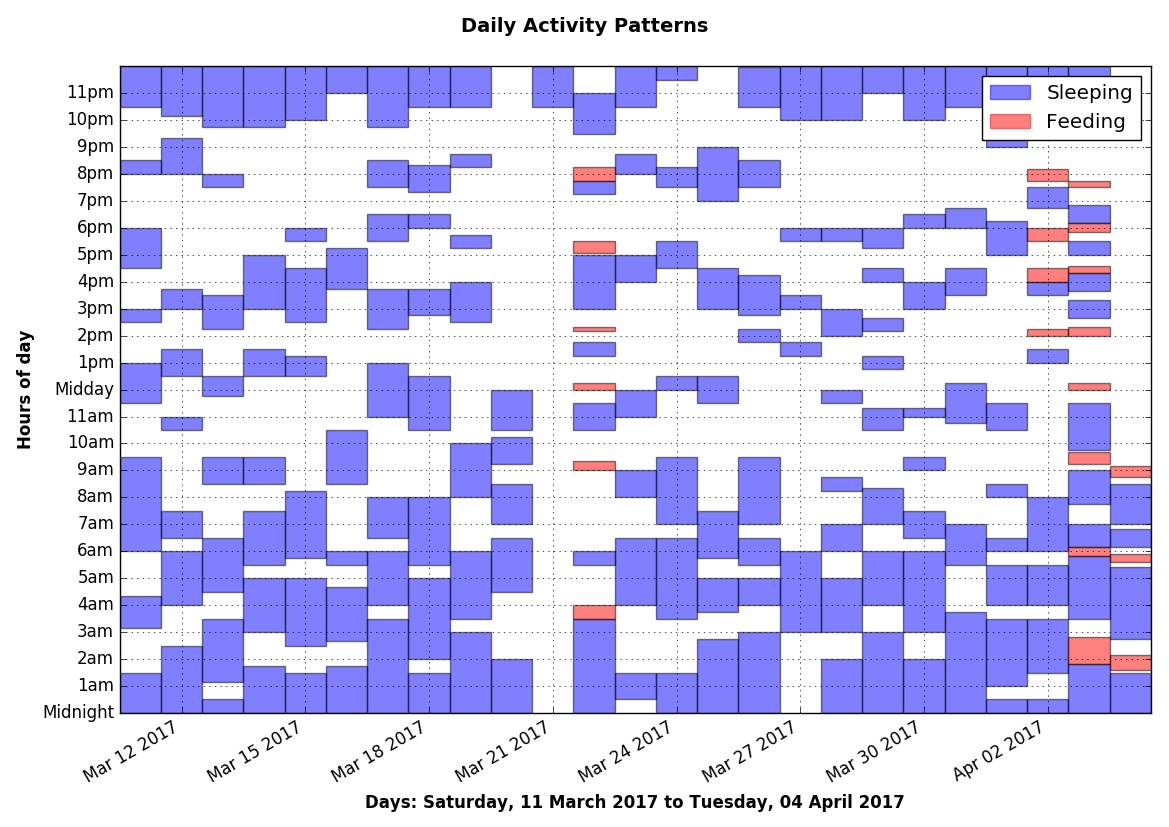
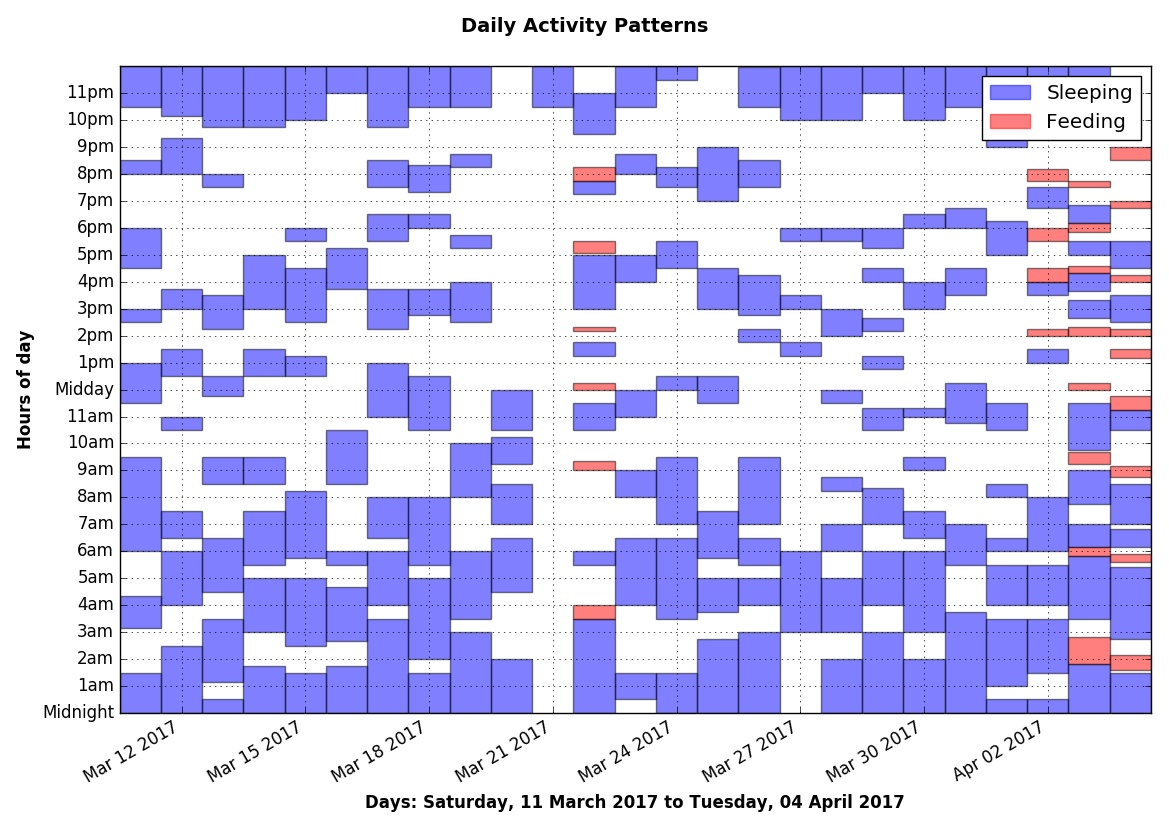
Daytime sleep info added to dataItems. Data update.

Changed region(s): [[0.9239, 0.2418, 0.9855, 0.5441], [0.9547, 0.1511, 0.9855, 0.2116]]

diff --git a/regressionAnalysis.py b/regressionAnalysis.py
@@ -61,7 +61,6 @@ def analyseData(activitiesList,maxDate,minDate):
         item = dataItem("dataItem",period)
         dataItemsDict[item.startDate] = item
 
-    print dataItemsDict
 
     # Creates a dictionary of activity objects, with start date keys and of the form "2019-01-27" and values containing lists of activityInstance values
     activityInstancesDict = {}
@@ -76,7 +75,36 @@ def analyseData(activitiesList,maxDate,minDate):
 
     dataItemsDict = addActivitiesToDataItems(dataItemsDict,activityInstancesDict)
 
-    print dataItemsDict
+    dataItemsDict = calculateAnalysisDataValues(dataItemsDict)
+
+def calculateAnalysisDataValues(dataItemsDict):
+
+    for key in dataItemsDict:
+        item = dataItemsDict[key]
+        # Calculates total seconds slept during night
+        secondsSleptInNight = 0.0
+        for activity in item.nightActivities:
+            print "night activity = "+str(activity)
+            if activity.name == "sleeping":
+                secondsSleptInNight += activity.seconds
+        item.sleptNightSeconds = secondsSleptInNight
+        # Calculates total seconds slept during day
+        secondsSleptInDay = 0.0
+        for activity in item.dayActivities:
+            print "day activity = "+str(activity)
+            if activity.name == "sleeping":
+                secondsSleptInDay += activity.seconds
+        item.sleptDaySeconds = secondsSleptInDay
+        # Calculates total seconds slept in twentyFourHourPeriod
+        item.slept24HoursSeconds = item.sleptNightSeconds + item.sleptDaySeconds
+
+        print str(key)
+        print "sleptNightSeconds = "+str(item.sleptNightSeconds)
+        print "sleptDaySeconds = "+str(item.sleptDaySeconds)
+        print "slept24HoursSeconds = "+str(item.slept24HoursSeconds)
+        print ""
+
+    return dataItemsDict
 
 def addActivitiesToDataItems(dataItemsDict,activityInstancesDict):
     activitiesSpillingIntoNextDay = []
@@ -127,6 +155,8 @@ class dataItem(object):
         self.day = twentyFourHourPeriod.subperiods["day"]
         self.night = twentyFourHourPeriod.subperiods["night"]
         self.nightfall = self.night.begins
+        self.starts = self.twentyFourHourPeriod.begins
+        self.ends = self.twentyFourHourPeriod.ends
         self.slept24HoursSeconds = 1.0
         self.sleptNightSeconds = 1.0
         self.sleptDaySeconds = 1.0
